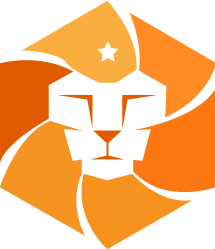
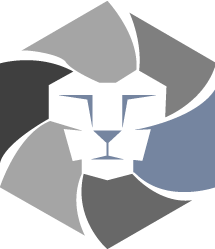
디자인 수정 성표

diff --git a/WebContent/res/css/bootstrap.css b/WebContent/res/css/bootstrap.css
@@ -4,6 +4,11 @@
  * Licensed under MIT (https://github.com/twbs/bootstrap/blob/master/LICENSE)
  */
 /*! normalize.css v3.0.3 | MIT License | github.com/necolas/normalize.css */
+#btnLike{
+	width: 35px;
+	height: 35px;
+}
+
 html {
   font-family: sans-serif;
   -webkit-text-size-adjust: 100%;
@@ -3288,26 +3293,26 @@ fieldset[disabled] .btn-info.focus {
 }
 .btn-warning {
   color: #fff;
-  background-color: #f0ad4e;
-  border-color: #eea236;
+  background-color: #687EAD;
+  border-color: #3A4F6D;
 }
 .btn-warning:focus,
 .btn-warning.focus {
   color: #fff;
-  background-color: #ec971f;
+  background-color: #24558F;
   border-color: #985f0d;
 }
 .btn-warning:hover {
   color: #fff;
-  background-color: #ec971f;
-  border-color: #d58512;
+  background-color:#527195;
+  border-color: #bcbcbc;
 }
 .btn-warning:active,
 .btn-warning.active,
 .open > .dropdown-toggle.btn-warning {
   color: #fff;
-  background-color: #ec971f;
-  border-color: #d58512;
+  background-color: #7a7a7a;
+  border-color: #fff;
 }
 .btn-warning:active:hover,
 .btn-warning.active:hover,
@@ -3319,8 +3324,8 @@ fieldset[disabled] .btn-info.focus {
 .btn-warning.active.focus,
 .open > .dropdown-toggle.btn-warning.focus {
   color: #fff;
-  background-color: #d58512;
-  border-color: #985f0d;
+  background-color: #557fb1;
+  border-color: #81aadc;
 }
 .btn-warning:active,
 .btn-warning.active,
